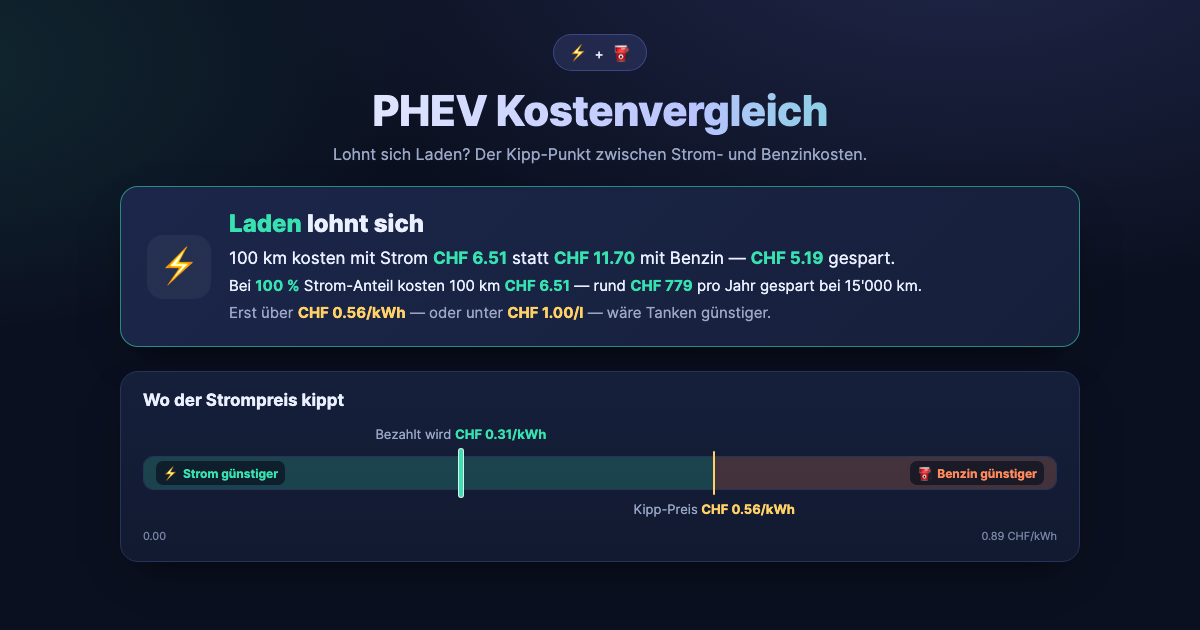
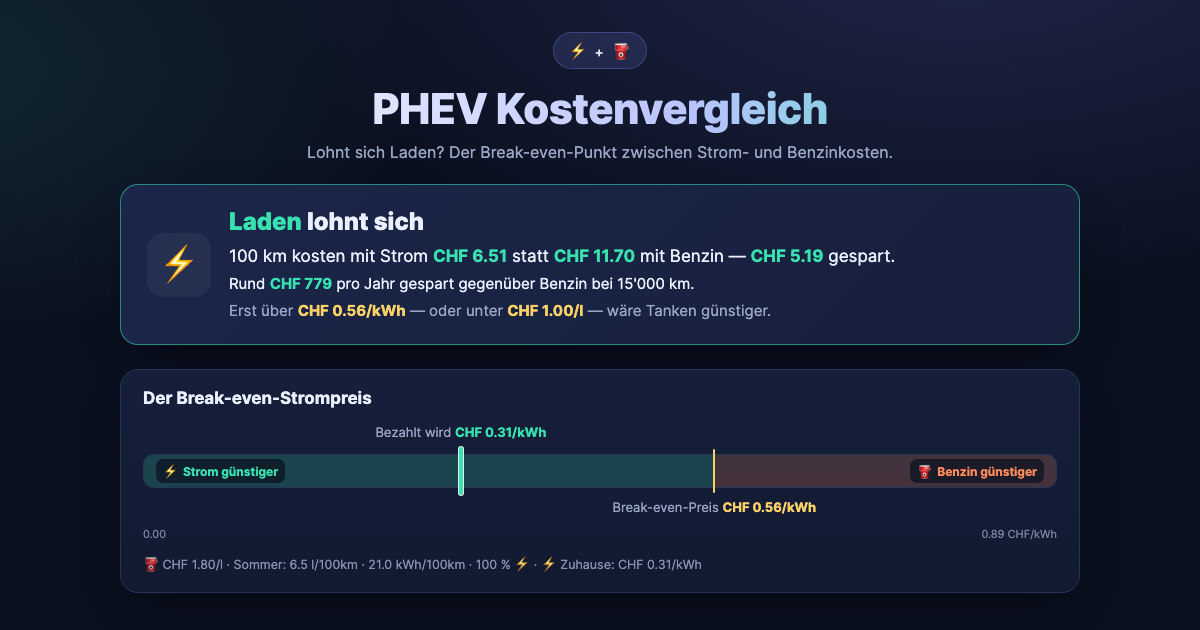
Update: German says Break-even instead of Kipp-; link-preview images regenerated

diff --git a/app/static/js/app.js b/app/static/js/app.js
@@ -132,16 +132,16 @@ const I18N = {
   },
   de: {
     app_title: "PHEV Kostenvergleich",
-    subtitle: "Lohnt sich Laden? Der Kipp-Punkt zwischen Strom- und Benzinkosten.",
+    subtitle: "Lohnt sich Laden? Der Break-even-Punkt zwischen Strom- und Benzinkosten.",
     fuel_price_title: "Aktueller Benzinpreis",
     chart_title: "Alle Preiskombinationen",
-    bar_title: "Wo der Strompreis kippt",
-    bar_here: "Bezahlt wird", bar_tip: "Kipp-Preis",
-    bar_no_tip: "Bei 0 kWh/100km gibt es keinen Kipp-Preis — Laden kostet nichts.",
+    bar_title: "Der Break-even-Strompreis",
+    bar_here: "Bezahlt wird", bar_tip: "Break-even-Preis",
+    bar_no_tip: "Bei 0 kWh/100km gibt es keinen Break-even-Preis — Laden kostet nichts.",
     region_elec: "Strom günstiger", region_fuel: "Benzin günstiger",
-    tipping_line: "Kipp-Linie",
+    tipping_line: "Break-even-Linie",
     profile_drive: "Fahrt", profile_charge: "Laden",
-    // Antwort als ein Satz: Kostenvergleich + beide Kipp-Preise + Annahmen.
+    // Antwort als ein Satz: Kostenvergleich + beide Break-even-Preise + Annahmen.
     verdict_elec: '<span class="accent-elec">Laden</span> lohnt sich',
     verdict_fuel: '<span class="accent-fuel">Tanken</span> lohnt sich',
     verdict_tie: "Unentschieden",
@@ -175,7 +175,7 @@ const I18N = {
     manage_lists: "Listen verwalten",
     scenarios: "Szenarien", charging_locations: "Standorte",
     add: "+ Hinzufügen", delete: "Löschen",
-    footer: "Kipp-Strompreis = (l/100km × {cur}/l) ÷ kWh/100km",
+    footer: "Break-even-Strompreis = (l/100km × {cur}/l) ÷ kWh/100km",
     currency: "Währung",
     guest_note: "Eigene Werte — nur in diesem Browser gespeichert",
     guest_reset: "Zurück zu den Standardwerten",

diff --git a/app/main.py b/app/main.py
@@ -254,7 +254,7 @@ PAGE_META = {
                    "electricity prices and see the break-even price at a glance."},
     "de": {"title": "PHEV Kostenvergleich",
            "desc": "Lohnt sich Laden beim Plug-in-Hybrid? Benzin- und Strompreis eingeben — "
-                   "der Kipp-Preis zeigt auf einen Blick, was günstiger ist."},
+                   "der Break-even-Preis zeigt auf einen Blick, was günstiger ist."},
 }
 
 

diff --git a/.claude-status.md b/.claude-status.md
@@ -2,12 +2,13 @@
 
 ## STATE
 Goal:     App vor Vorstellung im Lexus-Board polieren (viel Lob, wenig Kritik)
-Now:      DE-Texte auf «der km im EV-Modus» / «gegenüber Benzin» gekürzt, gepusht | wartet auf Rolfs `dco`
-Next:     Rolf: `dco`, Link-Vorschau testen, im Lexus-Board posten; offen: AGENTS.md klären
+Now:      DE «Kipp-» → «Break-even-», OG-Bilder neu, gepusht | blocked on: Rolfs OK zum neuen ersten Satz («Rein elektrisch: …»)
+Next:     nach OK Satz umsetzen + OG-Bilder neu; dann Rolf: `dco`, Link-Vorschau testen, posten; offen: AGENTS.md
 Touched:  app/static/js/app.js · styles.css · templates/index.html · main.py · static/og-de.png, og-en.png · tests/test_page.py · CLAUDE.md
 Verified: pytest 23 grün; Chromium 37/37 nach Paket B, 0 pageerror; Urteilskarte Handy 7 Zeilen, Fussnote nur im Balken
 Verified: Benzinpreis-Karte ohne Unterzeile: de/en × Handy/Desktop, Icon und Titel mittig, 0 pageerror; OG-Bilder zeigen die Karte nicht
 Verified: Textpaket + EV-Modus: 0 pageerror, kein Overflow, Hinweis 1 Zeile, Kontrast 6.51/7.87; Jahreszeile Handy DE bei 50 % = 3 Zeilen
+Verified: kein «Kipp» mehr im Seitentext/Meta (de), og-de/og-en 1200×630 neu, 0 pageerror
 Verified: Jahresbetrag Satz = Fünfer-Zeile (126 Preiskombinationen); Default 779/779
 Verified: leer/0/negativ → Hinweis + aria-invalid, Balken leer; kWh-Preis 0 gültig
 Verified: Gast-Werte überleben Reload, Reset löscht; Owner-Login löscht Gast-Kopie
@@ -19,8 +20,6 @@ Link:     fürs Forum https://phev.xolution.ch/?lang=de (optional &cur=eur)
 Regel:    automatisch committen + pushen (Rolf, 15.08.2026)
 
 ## LOG
-- 2026-11-15 A1 Rundung 779/778 OK — yearlyAt() einzige Quelle, 126 Kombinationen gleich
-- 2026-11-15 A2 Eingabeprüfung OK — Hinweis statt «CHF 0.00 … 1'755 gespart»
 - 2026-11-15 A3 Chart-Labels OK — 4 Fälle × Handy/Desktop, nichts liegt auf der Linie
 - 2026-11-15 A4 Meta/OG OK — 5 neue Tests, Vorschaubilder de/en
 - 2026-11-15 A5 Gast-Werte OK — localStorage.guestValues, Reset-Link
@@ -34,3 +33,4 @@ Regel:    automatisch committen + pushen (Rolf, 15.08.2026)
 - 2026-11-15 ChatGPT «Inhalt unter Fusszeile» geprüft OK — lokal Gastansicht 1280/390: nur 60px Padding, kein Overflow
 - 2026-11-15 Textpaket OK — pytest 23, Chromium 7 Ansichten fehlerfrei, kein Seiten-Overflow
 - 2026-11-15 EV-Modus-Wording OK — pytest 23, Handy 3 Zeilen (vorher 4), Desktop 2
+- 2026-11-15 Kipp → Break-even OK — pytest 23, Seitentext ohne «Kipp», OG-Bilder neu

diff --git a/CLAUDE.md b/CLAUDE.md
@@ -45,7 +45,8 @@ The local DB is `sweetspot.db` (gitignored); override its path with `SWEETSPOT_D
   server (`PAGE_META` / `page_lang()` in `main.py`: `?lang=` → `Accept-Language` → en), because
   crawlers run no JS. Preview images `app/static/og-de.png` / `og-en.png` (1200×630) are
   screenshots of hero + verdict + price bar on a fresh seed DB — regenerate them when that
-  look changes.
+  look or its wording changes (Playwright, 1200×630, dark, `?lang=`; hide `.topbar`, `.fuelbar`,
+  `.profiles` and everything after the price bar).
 - **Invalid input is named, not calculated:** an empty/negative field or a consumption ≤ 0
   shows a hint instead of a result and marks the field (`aria-invalid`; `invalidFields()` /
   `renderInvalid()`). A kWh price of 0 is valid (free charging).
@@ -82,8 +83,8 @@ The local DB is `sweetspot.db` (gitignored); override its path with `SWEETSPOT_D
   i18n key `app_title` — it drives the `<h1>` and `document.title`, so the browser tab follows
   the language. The repo, image and DB keep the name `phev-sweetspot`.
 - **Vocabulary:** **EN says *break-even* throughout** (break-even line / break-even price —
-  the term English-speaking PHEV drivers know), **DE says *Kipp-*** (Kipp-Linie, Kipp-Preis,
-  Kipp-Punkt as the umbrella term in the subtitle); *Sweetspot* stays in both. The profile
+  the term English-speaking PHEV drivers know), **DE says *Break-even-* too** (Break-even-Preis,
+  Break-even-Linie, Break-even-Punkt in the subtitle; *Kipp-* was dropped on 15.11.2026, Rolf); *Sweetspot* stays in both. The profile
   rows are *Trip / Fahrt* and *Charging / Laden*. The API and `calc.py` keep the
   `break_even_*` names, and so do the i18n keys (`tipping_line`, `bar_tip`) — keys are code,
   not copy. One fixed chart orientation (x = fuel price) — there is no axis toggle any more.
